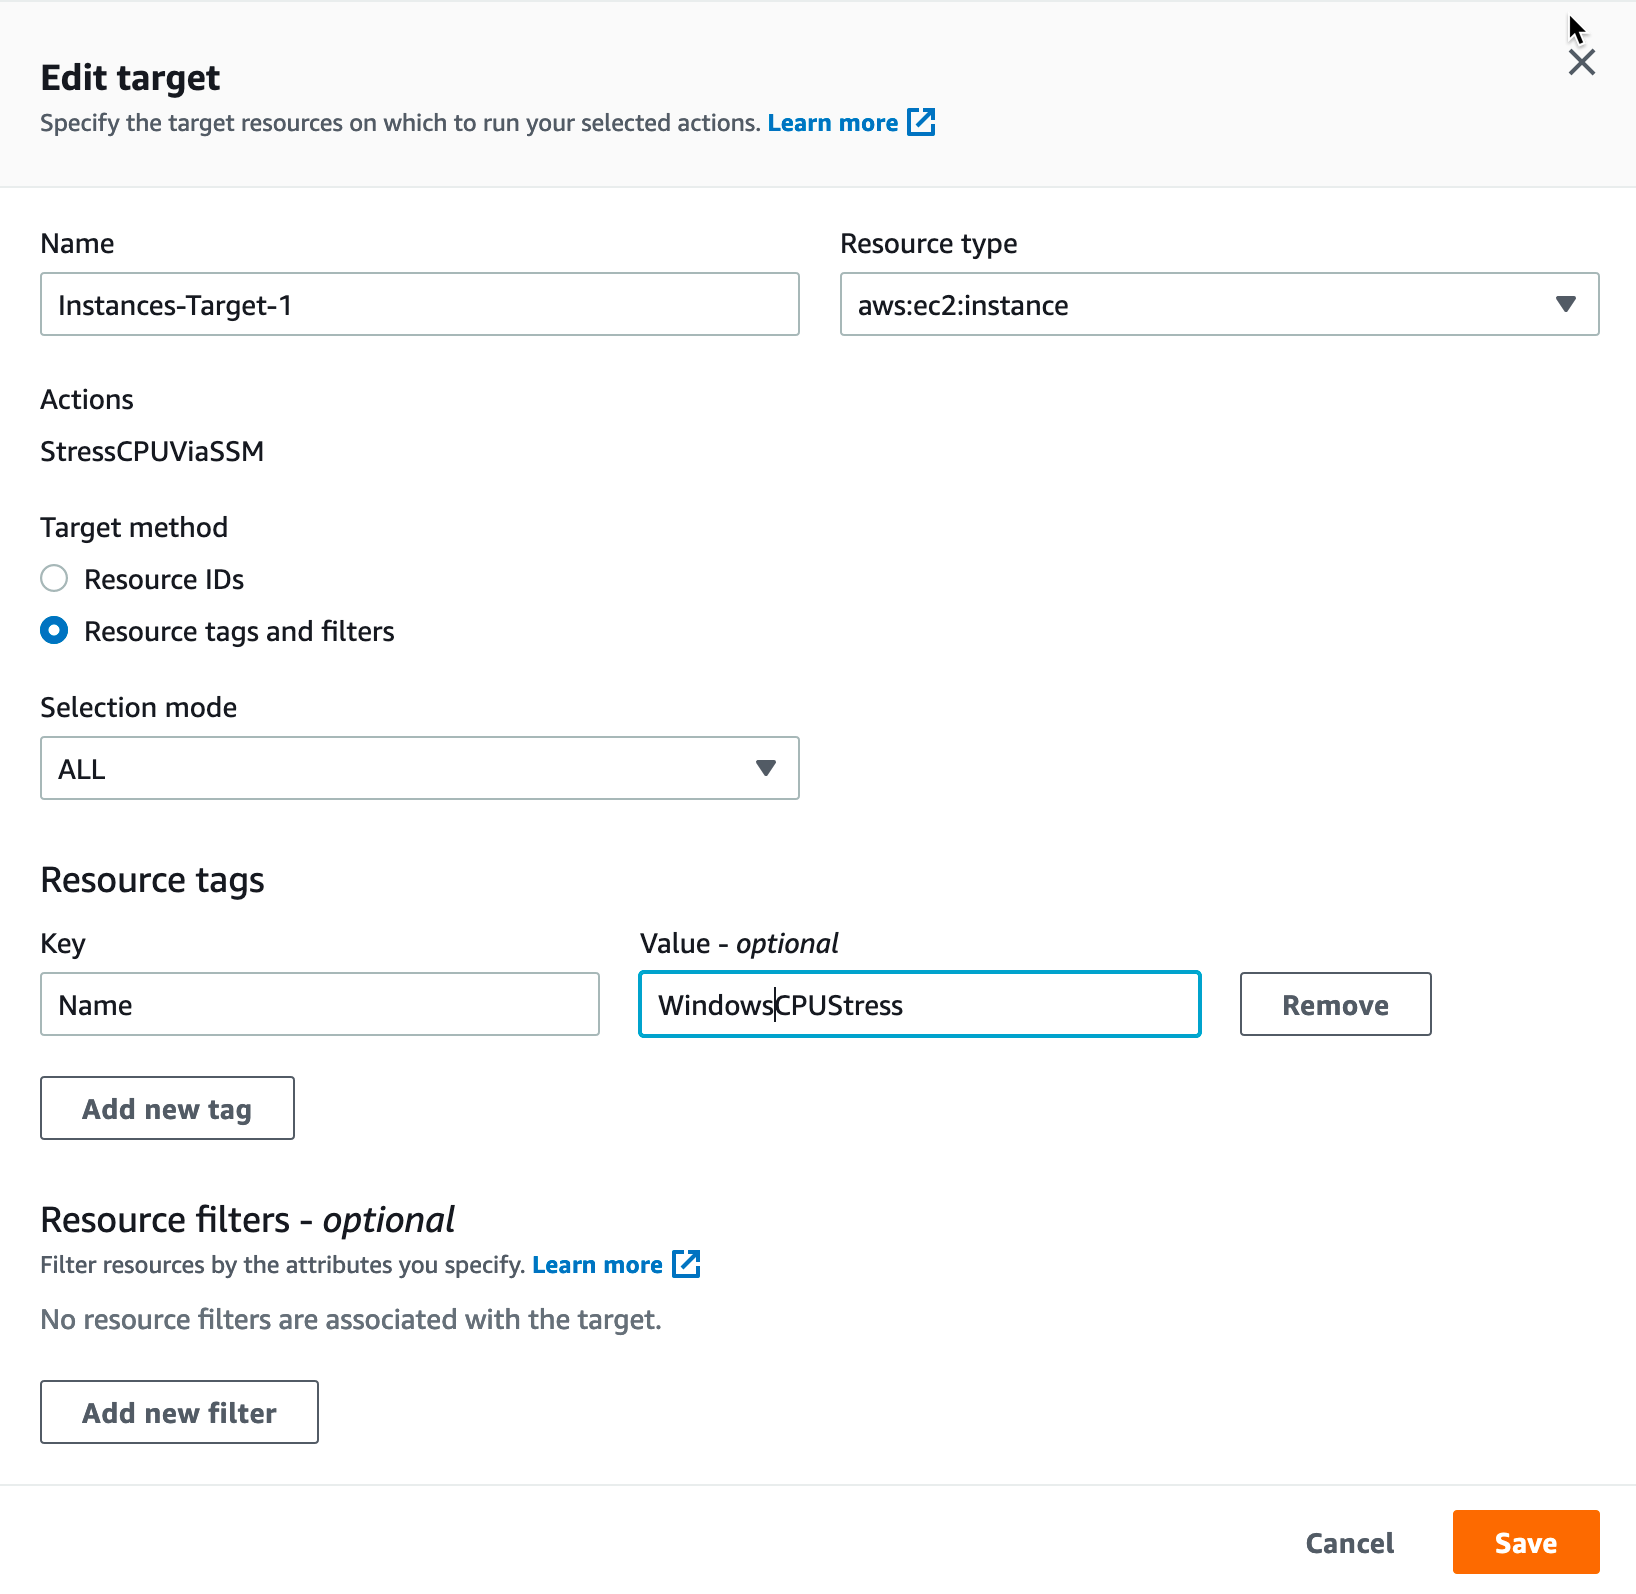
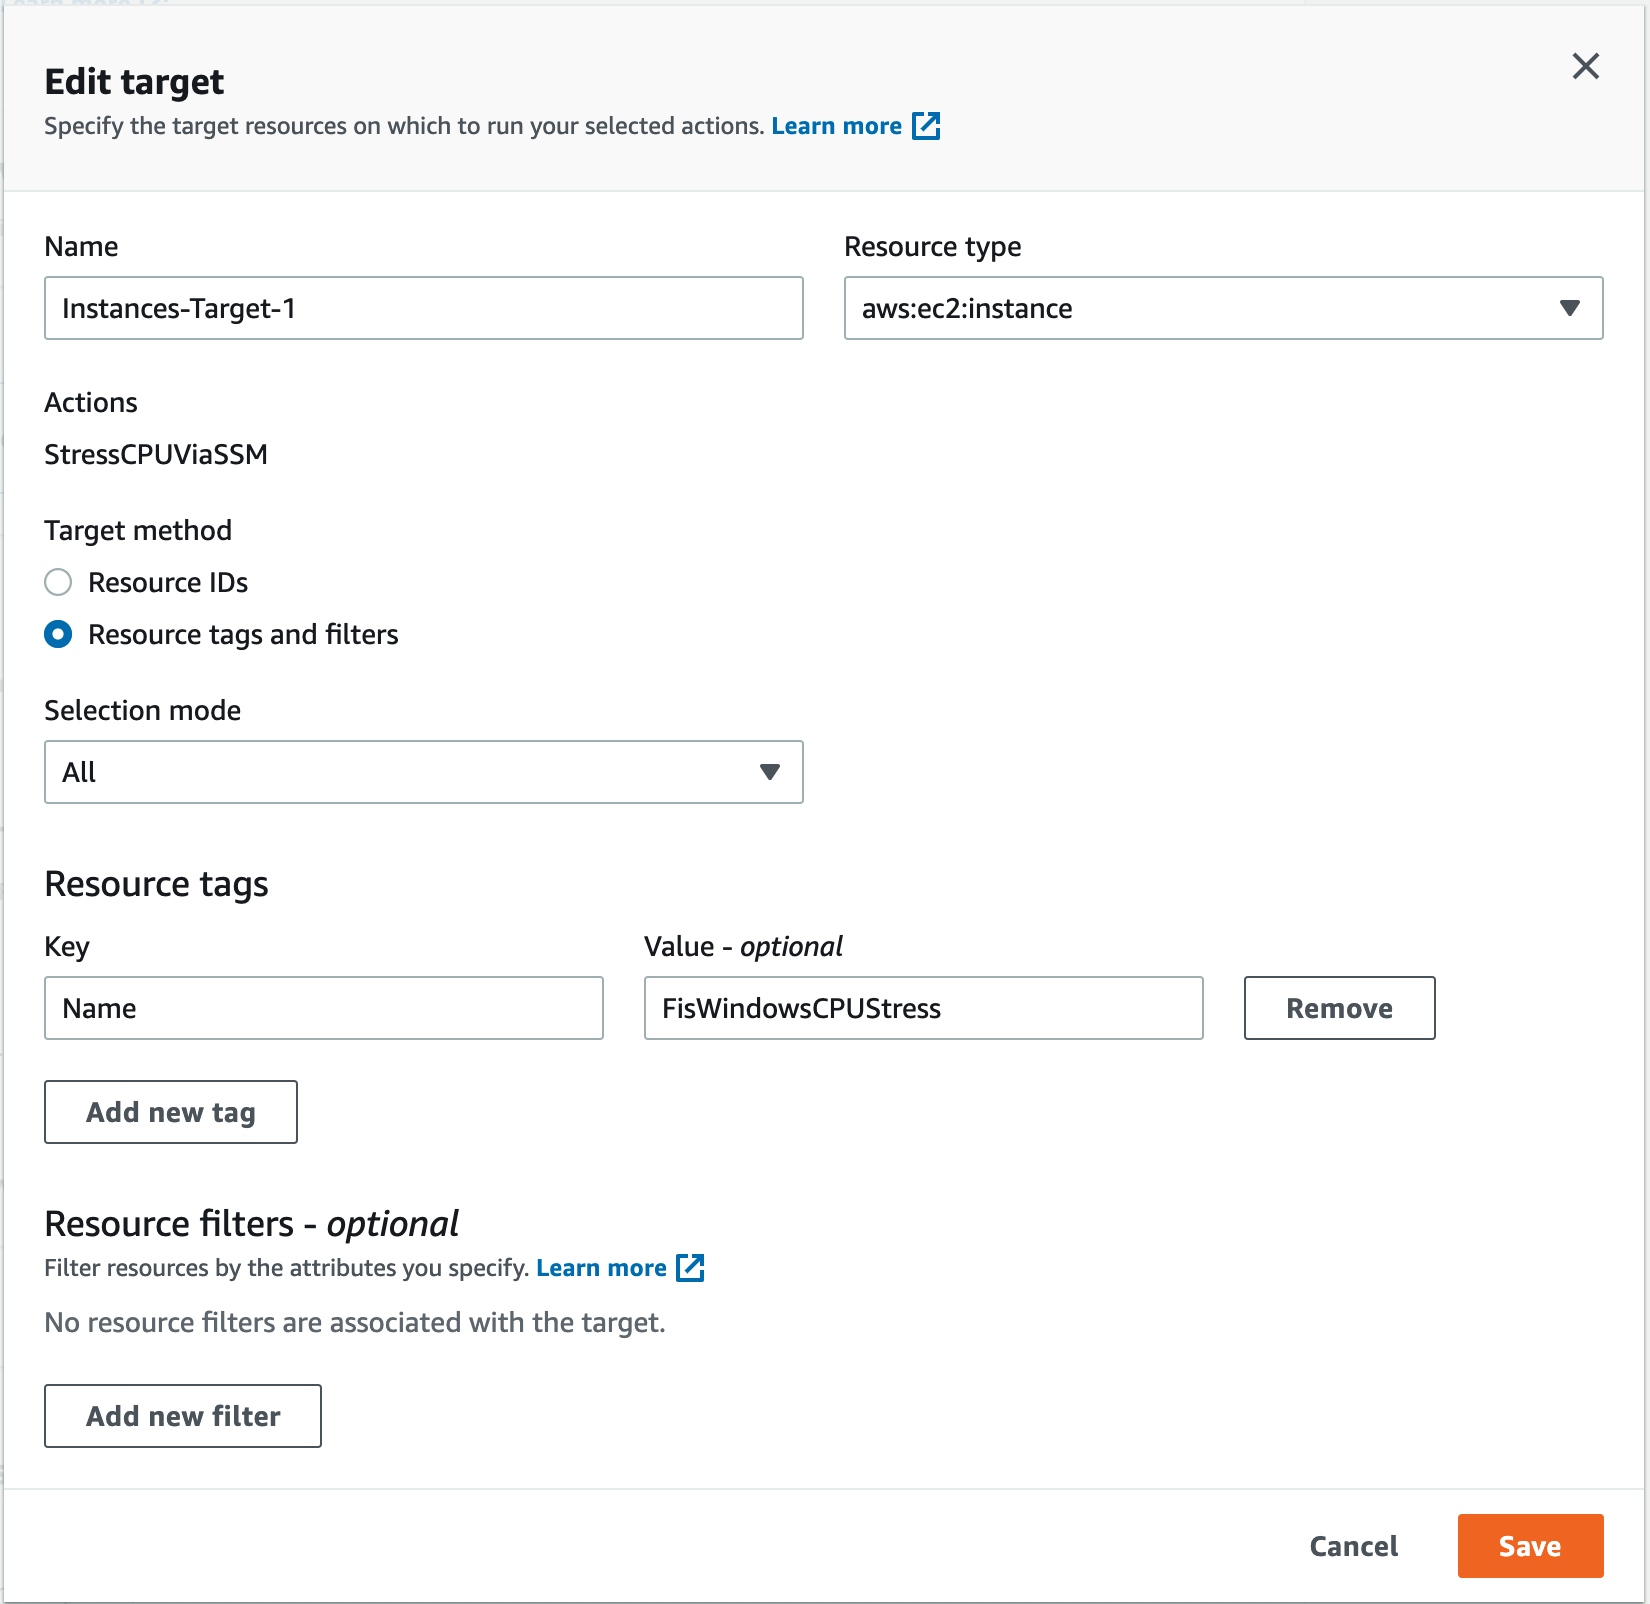
fixing image, fixing text to keep consistency

diff --git a/workshop/content/030_basic_content/040_ssm/040_windows_stress/_index.md b/workshop/content/030_basic_content/040_ssm/040_windows_stress/_index.md
@@ -4,13 +4,13 @@ weight = 40
 +++
 
 {{% notice warning %}}
-This section requires that you have an RDP agent on your local machine. This section cannot be performed from a cloud9 instance. 
+This section requires that you have an RDP client on your local machine. This section cannot be performed from a cloud9 instance. 
 {{% /notice %}}
 
 In this section we will run a CPU Stress test using AWS Fault Injection Simulator against an Amazon Windows EC2 Instance. The Windows CPU stress test will use a custom SSM command document. We will do the following: 
 
 1. Create experiment template to stress CPU.
-2. Reset password on Windows Instance
+2. Reset password on Windows Instance.
 2. Connect to Windows EC2 Instance and run task manager.
 3. Start experiment and observe results.
 
@@ -22,23 +22,23 @@ First, lets create our stress experiment. We can do this programmatically but we
 
 1. Open the [AWS Fault Injection Simulator Console](https://console.aws.amazon.com/fis/home?#Home). Once in the Fault Injection Simulator console, lets click on "Experiment templates" on the left side pane. 
 
-2. Click on "Create Experiment" on  the upper right hand side of the console to start creating our experiment template. 
+2. Click on "Create experiment template" on  the upper right hand side of the console to start creating our experiment template. 
 
 3. Next we will enter the description of the experiment and choose the IAM Role. Let's put `WindowsBurnCPUviaSSM` for the description. The IAM role allows the FIS service permissions to execute the actions on your behalf. As part of the CloudFormation stack a role was created for this experiment that starts with `FisCpuStress-FISRole`, select that role. Please examine the CloudFormation template or IAM Role for the policies in this role. 
 
 {{< img "Winexperimentdescription.png" "Win Experiment Description and Role" >}}
 
-4. After we have entered a description and a role, we need to setup our actions. Click the "Add Action" Button in the Actions Section. 
+4. After we have entered a description and a role, we need to setup our actions. Click the "Add action" button in the Actions Section. 
 
 Enter a "Name" of `StressCPUViaSSM`, and under "Action Type" select the `aws:ssm:send-command` action. Currently there is not an out of box Action for Windows CPU Stress Testing, so we are using the send-command action along with a command document that was deployed by our CloudFormation template. To view this document please reference the `WinStressDocument` resource in the [CloudFormation template](https://github.com/aws-samples/aws-fault-injection-simulator-workshop/blob/main/resources/templates/cpu-stress/CPUStressInstances.yaml). 
 
 To find the ARN of the document that was created by the template, open a new tab and browse to the [CloudFormation console](https://console.aws.amazon.com/cloudformation/home?#/stacks?filteringStatus=active&filteringText=FisCpuStress&viewNested=true&hideStacks=false), select "Stacks", click on the stack named "FisCpuStress", then select "Outputs". Copy the value of the `WinStressDocumentArn` entry as you will need it in the next step.
 
-Return to the FIS console and enter the ARN you copied into the "documentArn" field. Then set the "documentParameters" field to `{"durationSeconds":120}` which is passed to the script and the "duration" field to `2` which tells FIS how long to wait for a result. Finally click "Save". This action will use [AWS Systems Manager Run Command](https://docs.aws.amazon.com/systems-manager/latest/userguide/execute-remote-commands.html) to run the `FisCpuStress-WinStressDocument` document against our targets for two minutes. To get the document ARN look out that output section of the CloudFormation Stack we deployed for this lab. 
+Return to the FIS console and enter the ARN you copied into the "documentArn" field. Then set the "documentParameters" field to `{"durationSeconds":120}` which is passed to the script and the "duration" field to `2` which tells FIS how long to wait for a result. Finally click "Save". This action will use [AWS Systems Manager Run Command](https://docs.aws.amazon.com/systems-manager/latest/userguide/execute-remote-commands.html) to run the `FisCpuStress-WinStressDocument` document against our targets for two minutes. 
 
 {{< img "WinStressActionSettings.png" "Action Settings" >}}
 
-5. Once we have saved the action, let's edit our targets. Click on "Edit targets". To select our target instances by tag select "Resource tags and filters" and keep selection mode `ALL`. Click "Add new tag" and enter a "Key" of `Name` and a "Value" of `FisWindowsCPUStress`. Finally click "Save". 
+5. Once we have saved the action, let's edit our targets. Click on "Edit" button under the Targets section. To select our target instances by tag select "Resource tags and filters" and keep selection mode `ALL`. Click "Add new tag" and enter a "Key" of `Name` and a "Value" of `FisWindowsCPUStress`. Finally click "Save". 
 
 {{< img "WinEditTarget.png" "Target Settings" >}}
 
@@ -112,7 +112,7 @@ Then examine the Error output:
 
 
 
-3. Once you have RDP'ed into the Windows instance, launch task manager so you can see the CPU graph as shown below. 
+3. Once you have RDP'ed into the Windows Instance, launch task manager so you can see the CPU graph as shown below. 
 
 {{< img "WinNoStress.png" "Task Manager" >}}
 
